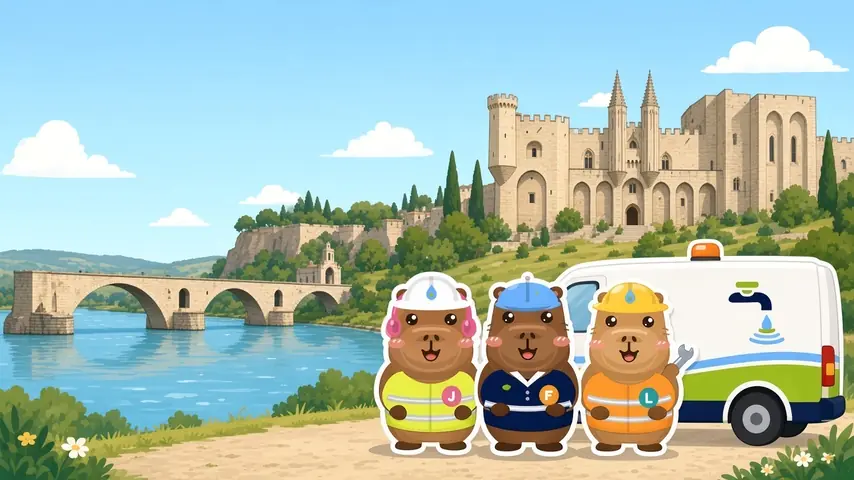
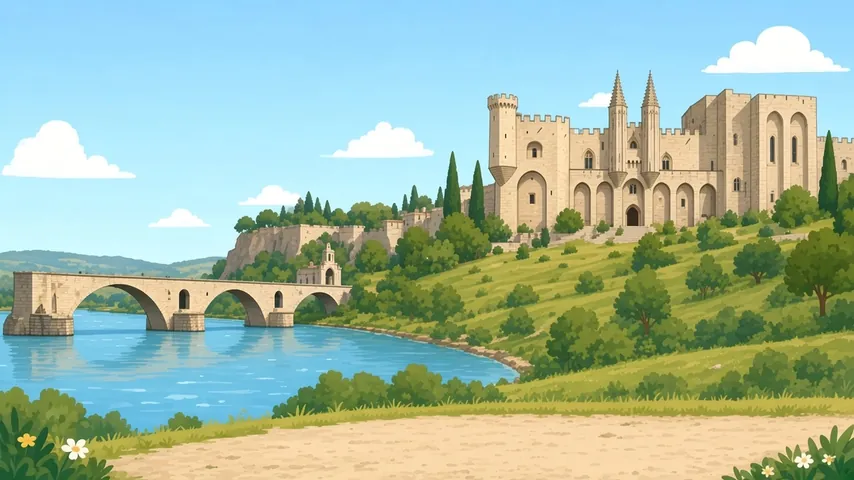
Accueil : l'équipe redessinée avec le dessin du jeu (têtes Classique/Ronde/Long museau, nouvelles tenues, badges J/F/L), fourgon SVG, ton capy à côté sur grand écran ; fond d'Avignon sans personnages

diff --git a/src/style.css b/src/style.css
@@ -43,6 +43,16 @@ a{color:var(--ldr-blue-d)}
 .home{position:relative;flex:1;display:flex;align-items:center;padding:var(--sp-4) var(--sp-5);overflow:hidden;background:#BFE3F5}
 .h-bg{position:absolute;inset:0;width:100%;height:100%;object-fit:cover;object-position:70% 60%}
 .h-veil{position:absolute;inset:0;background:linear-gradient(90deg,#FFF8ECf2 0,#FFF8ECe0 32%,#FFF8EC66 50%,#FFF8EC00 64%)}
+/* home hero: backdrop painting (no characters) + the crew drawn with the game's own SVG art (same heads/outfits as the planning) */
+.h-scene{position:absolute;right:0;bottom:0;width:47%;height:100%;pointer-events:none;container-type:size;--ch:min(50cqh,40cqw)}
+.h-van{position:absolute;right:-14cqw;bottom:calc(var(--ch) * .32);width:min(80cqw,120cqh);height:auto}
+.h-crew{position:absolute;left:-2cqw;right:8cqw;bottom:1cqh;display:flex;align-items:flex-end;justify-content:center}
+.h-cap{display:block;flex:none;height:var(--ch);aspect-ratio:112/106;margin:0 -6.5cqw;animation:hbob 3.2s ease-in-out infinite;transform-origin:50% 100%}
+.h-cap svg{width:100%;height:100%;display:block;filter:drop-shadow(0 4px 3px #5a371926)}
+.h-cap.me{display:none;z-index:2;animation-delay:-.4s}.h-cap.momo{animation-delay:-1.1s;z-index:1;height:calc(var(--ch) * 1.05)}.h-cap.lulu{animation-delay:-2s}
+@media (min-width:1000px){.h-scene{width:56%;--ch:min(40cqh,31cqw)}.h-van{width:min(62cqw,90cqh);right:-8cqw;bottom:calc(var(--ch) * .5)}.h-cap{margin:0 -5cqw}.h-cap.me{display:block;height:calc(var(--ch) * .9)}}
+@keyframes hbob{0%,100%{transform:translateY(0)}50%{transform:translateY(-3px)}}
+@media (prefers-reduced-motion:reduce){.h-cap{animation:none}}
 .h-left{position:relative;flex:none;width:min(470px,52%);display:flex;flex-direction:column;gap:var(--sp-2)}
 .brand{display:flex;align-items:center;gap:var(--sp-2)}.brand .b1{font-weight:700;color:var(--ldr-navy);font-size:var(--fs-m)}.brand .b2{font-size:var(--fs-s);color:var(--ink-2)}
 .title{margin:2px 0 0;font-size:clamp(40px,7.4vw,72px);line-height:1;color:#fff;-webkit-text-stroke:9px var(--ldr-navy);paint-order:stroke fill;text-shadow:0 5px 0 var(--ldr-navy);letter-spacing:.5px}

diff --git a/src/main.ts b/src/main.ts
@@ -103,6 +103,7 @@ function home() {
   $('#home').innerHTML = `<div class="home">
     <img class="h-bg" src="./art/home-keyart.webp" srcset="./art/home-keyart-854.webp 854w, ./art/home-keyart.webp 1280w" sizes="100vw" alt="" decoding="async" fetchpriority="high">
     <div class="h-veil"></div>
+    <div class="h-scene" aria-hidden="true">${vanSvg('fourgon', 'h-van')}<div class="h-crew">${S.player ? `<span class="h-cap me">${me()}</span>` : ''}${(['josette', 'momo', 'lulu'] as const).map((c) => `<span class="h-cap ${c}">${who(c)}</span>`).join('')}</div></div>
     <div class="h-left">
       <div class="brand">${logoLDR(46)}<div><div class="b1">Lyonnaise des Robinets</div><div class="b2">Agence d'Avignon · eau potable</div></div></div>
       <h1 class="title"><span>Capy</span> Dispatch</h1>
